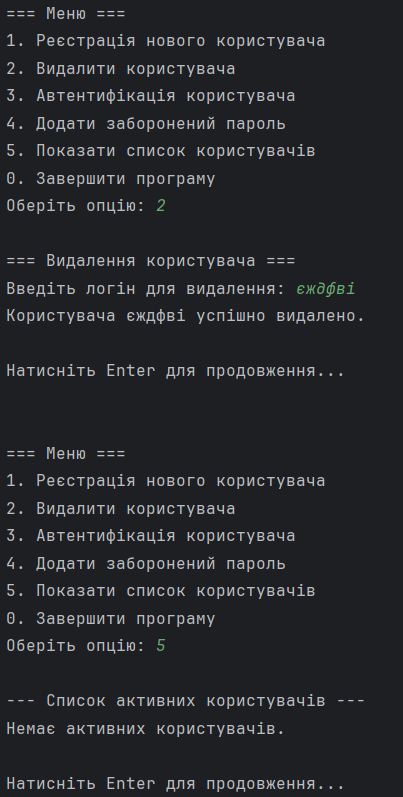
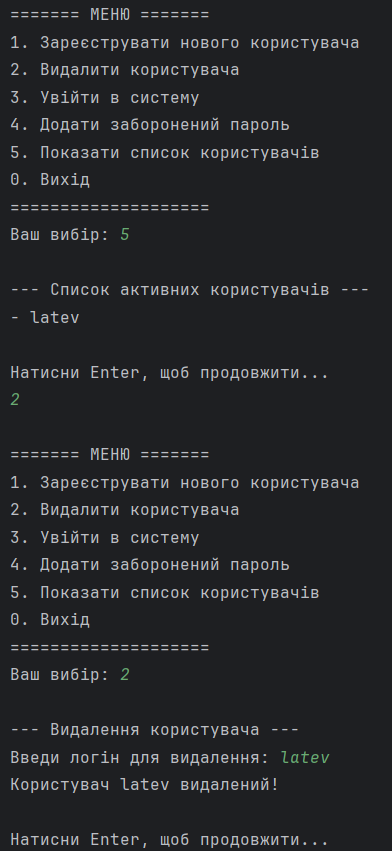
Refactoring and simplification

Changed region(s): [[0.0, 0.0, 0.9184, 0.4818], [0.0, 0.5119, 0.9184, 0.9335], [0.0, 0.9636, 0.8265, 1.0]]

diff --git a/src/Main.java b/src/Main.java
@@ -1,70 +1,65 @@
 import java.util.Scanner;
 
 public class Main {
-    private static final int MAX_USERS = 15;
-    private static final String[] restrictedPasswords = {"admin", "pass", "password", "qwerty", "ytrewq"};
-    private static final String[] usernames = new String[MAX_USERS];
-    private static final String[] passwords = new String[MAX_USERS];
-    private static final boolean[] isActive = new boolean[MAX_USERS];
+    public static final int MAX_USERS = 15;
+    public static String[] bannedPasswords = {"admin", "pass", "password", "qwerty", "ytrewq"};
+    public static String[] usernames = new String[MAX_USERS];
+    public static String[] passwords = new String[MAX_USERS];
+    public static boolean[] isActive = new boolean[MAX_USERS];
 
     public static void main(String[] args) {
         Scanner scanner = new Scanner(System.in);
         boolean isRunning = true;
 
-        System.out.println("    Система автентифікації користувачів    ");
-
         while (isRunning) {
             showMenu();
-            System.out.print("Оберіть опцію: ");
+            System.out.print("Ваш вибір: ");
             int choice = readIntInput(scanner);
 
-            try {
-                switch (choice) {
-                    case 1:
-                        registerUser(scanner);
-                        break;
-                    case 2:
-                        deleteUser(scanner);
-                        break;
-                    case 3:
-                        authenticateUser(scanner);
-                        break;
-                    case 4:
-                        addForbiddenPassword(scanner);
-                        break;
-                    case 5:
-                        showUsers();
-                        break;
-                    case 0:
-                        isRunning = false;
-                        System.out.println("Програму зупинено.");
-                        break;
-                    default:
-                        System.out.println("Некоректний вибір. Спробуйте ще раз.");
-                }
-            } catch (Exception e) {
-                System.out.println("Сталася помилка: " + e.getMessage());
+            switch (choice) {
+                case 1:
+                    registerUser(scanner);
+                    break;
+                case 2:
+                    deleteUser(scanner);
+                    break;
+                case 3:
+                    authenticateUser(scanner);
+                    break;
+                case 4:
+                    addForbiddenPassword(scanner);
+                    break;
+                case 5:
+                    showUsers();
+                    break;
+                case 0:
+                    isRunning = false;
+                    System.out.println("Вихід з програми. Бувай!");
+                    break;
+                default:
+                    System.out.println("Гей, такого пункту немає! Спробуй ще раз.");
             }
 
             if (isRunning) {
-                System.out.println("\nНатисніть Enter для продовження...");
+                System.out.println("\nНатисни Enter, щоб продовжити...");
                 scanner.nextLine();
             }
         }
         scanner.close();
     }
 
-    private static void showMenu() {
-        System.out.println("\n=== Меню ===");
-        System.out.println("1. Реєстрація нового користувача");
+    public static void showMenu() {
+        System.out.println("\n======= МЕНЮ =======");
+        System.out.println("1. Зареєструвати нового користувача");
         System.out.println("2. Видалити користувача");
-        System.out.println("3. Автентифікація користувача");
+        System.out.println("3. Увійти в систему");
         System.out.println("4. Додати заборонений пароль");
         System.out.println("5. Показати список користувачів");
-        System.out.println("0. Завершити програму");
+        System.out.println("0. Вихід");
+        System.out.println("====================");
     }
 
-    private static int readIntInput(Scanner scanner) {
+    public static int readIntInput(Scanner scanner) {
         int value = -1;
         boolean validInput = false;
 
@@ -73,129 +68,45 @@ public class Main {
                 value = Integer.parseInt(scanner.nextLine().trim());
                 validInput = true;
             } catch (NumberFormatException e) {
-                System.out.print("Некоректне число! Введіть ціле число: ");
+                System.out.print("Це не число! Давай ще раз: ");
             }
         }
         return value;
     }
 
-    private static void registerUser(Scanner scanner) throws Exception {
-        System.out.println("\n=== Реєстрація нового користувача ===");
-        System.out.print("Введіть логін (мінімум 5 символів, без пробілів): ");
+    public static void registerUser(Scanner scanner) {
+        System.out.println("\n--- Реєстрація нового користувача ---");
+        System.out.print("Введи логін (мінімум 5 символів, без пробілів): ");
         String username = scanner.nextLine();
 
-        validateUsername(username);
-
-        for (int i = 0; i < MAX_USERS; i++) {
-            if (usernames[i] != null && isActive[i] && usernames[i].equals(username)) {
-                throw new Exception("Користувач з таким ім'ям вже існує!");
-            }
-        }
-
-        System.out.print("Введіть пароль (мінімум 10 символів, з яких хоча б 3 цифри і 1 спецсимвол): ");
-        String password = scanner.nextLine();
-
-        validatePassword(password);
-
-        for (String restricted : restrictedPasswords) {
-            if (restricted.equals(password)) {
-                throw new Exception("Пароль знаходиться у списку заборонених!");
-            }
-        }
-
-        for (int i = 0; i < MAX_USERS; i++) {
-            if (usernames[i] == null || !isActive[i]) {
-                usernames[i] = username;
-                passwords[i] = password;
-                isActive[i] = true;
-                System.out.println("Користувача " + username + " успішно зареєстровано.");
-                return;
-            }
-        }
-        throw new Exception("Досягнуто максимальної кількості користувачів (15)!");
-    }
-
-    private static void deleteUser(Scanner scanner) throws Exception {
-        System.out.println("\n=== Видалення користувача ===");
-        System.out.print("Введіть логін для видалення: ");
-        String username = scanner.nextLine();
-
-        for (int i = 0; i < MAX_USERS; i++) {
-            if (usernames[i] != null && isActive[i] && usernames[i].equals(username)) {
-                isActive[i] = false;
-                System.out.println("Користувача " + username + " успішно видалено.");
-                return;
-            }
-        }
-        throw new Exception("Користувача з ім'ям " + username + " не знайдено!");
-    }
-
-    private static void authenticateUser(Scanner scanner) throws Exception {
-        System.out.println("\n=== Автентифікація користувача ===");
-        System.out.print("Введіть логін: ");
-        String username = scanner.nextLine();
-        System.out.print("Введіть пароль: ");
-        String password = scanner.nextLine();
-
-        for (int i = 0; i < MAX_USERS; i++) {
-            if (usernames[i] != null && isActive[i] && usernames[i].equals(username) && passwords[i].equals(password)) {
-                System.out.println("Користувача " + username + " успішно авторизовано.");
-                return;
-            }
-        }
-        throw new Exception("Невірне ім'я користувача або пароль!");
-    }
-
-    private static void addForbiddenPassword(Scanner scanner) throws Exception {
-        System.out.println("\n=== Додавання забороненого паролю ===");
-        System.out.print("Введіть пароль для заборони: ");
-        String password = scanner.nextLine();
-
-        for (String restricted : restrictedPasswords) {
-            if (restricted.equals(password)) {
-                throw new Exception("Пароль вже знаходиться у списку заборонених!");
-            }
-        }
-
-        String[] newRestrictedPasswords = new String[restrictedPasswords.length + 1];
-        System.arraycopy(restrictedPasswords, 0, newRestrictedPasswords, 0, restrictedPasswords.length);
-        newRestrictedPasswords[restrictedPasswords.length] = password;
-        System.out.println("Пароль успішно додано до списку заборонених.");
-    }
-
-    private static void showUsers() {
-        System.out.println("\n--- Список активних користувачів ---");
-        boolean hasUsers = false;
-
-        for (int i = 0; i < MAX_USERS; i++) {
-            if (usernames[i] != null && isActive[i]) {
-                System.out.println("- " + usernames[i]);
-                hasUsers = true;
-            }
-        }
-
-        if (!hasUsers) {
-            System.out.println("Немає активних користувачів.");
-        }
-    }
-
-    private static void validateUsername(String username) throws Exception {
         if (username == null || username.trim().length() < 5) {
-            throw new Exception("Некоректне ім'я користувача! Воно повинно містити щонайменше 5 символів.");
+            System.out.println("Помилка! Логін має бути не менше 5 символів!");
+            return;
         }
 
         if (username.contains(" ")) {
-            throw new Exception("Некоректне ім'я користувача! Воно не повинно містити пробілів.");
+            System.out.println("Помилка! У логіні не повинно бути пробілів!");
+            return;
         }
-    }
 
-    private static void validatePassword(String password) throws Exception {
+        for (int i = 0; i < MAX_USERS; i++) {
+            if (usernames[i] != null && isActive[i] && usernames[i].equals(username)) {
+                System.out.println("Такий користувач вже є!");
+                return;
+            }
+        }
+
+        System.out.print("Введи пароль (мінімум 10 символів, мінімум 3 цифри і 1 спецсимвол): ");
+        String password = scanner.nextLine();
+
         if (password == null || password.length() < 10) {
-            throw new Exception("Некоректний пароль! Повинен бути мінімум 10 символів.");
+            System.out.println("Помилка! Пароль має бути не менше 10 символів!");
+            return;
         }
 
         if (password.contains(" ")) {
-            throw new Exception("Некоректний пароль! Не повинен містити пробілів.");
+            System.out.println("Помилка! У паролі не повинно бути пробілів!");
+            return;
         }
 
         int digitCount = 0;
@@ -209,11 +120,117 @@ public class Main {
         }
 
         if (digitCount < 3) {
-            throw new Exception("Некоректний пароль! Повинен містити щонайменше 3 цифри.");
+            System.out.println("Помилка! У паролі має бути мінімум 3 цифри!");
+            return;
         }
 
         if (specialCharCount < 1) {
-            throw new Exception("Некоректний пароль! Повинен містити щонайменше 1 спеціальний символ.");
+            System.out.println("Помилка! У паролі має бути хоча б 1 спецсимвол!");
+            return;
+        }
+
+        for (String restricted : bannedPasswords) {
+            if (restricted.equals(password)) {
+                System.out.println("Цей пароль заборонений! Вибери інший.");
+                return;
+            }
+        }
+
+        boolean userAdded = false;
+        for (int i = 0; i < MAX_USERS; i++) {
+            if (usernames[i] == null || !isActive[i]) {
+                usernames[i] = username;
+                passwords[i] = password;
+                isActive[i] = true;
+                System.out.println("Ура! Користувач " + username + " успішно зареєстрований!");
+                userAdded = true;
+                break;
+            }
+        }
+
+        if (!userAdded) {
+            System.out.println("Місця немає! У нас вже максимум користувачів (15)!");
+        }
+    }
+
+    public static void deleteUser(Scanner scanner) {
+        System.out.println("\n--- Видалення користувача ---");
+        System.out.print("Введи логін для видалення: ");
+        String username = scanner.nextLine();
+
+        boolean userFound = false;
+        for (int i = 0; i < MAX_USERS; i++) {
+            if (usernames[i] != null && isActive[i] && usernames[i].equals(username)) {
+                isActive[i] = false;
+                System.out.println("Користувач " + username + " видалений!");
+                userFound = true;
+                break;
+            }
+        }
+
+        if (!userFound) {
+            System.out.println("Такого користувача немає в системі!");
+        }
+    }
+
+    public static void authenticateUser(Scanner scanner) {
+        System.out.println("\n--- Вхід в систему ---");
+        System.out.print("Логін: ");
+        String username = scanner.nextLine();
+        System.out.print("Пароль: ");
+        String password = scanner.nextLine();
+
+        boolean authenticated = false;
+        for (int i = 0; i < MAX_USERS; i++) {
+            if (usernames[i] != null && isActive[i] && usernames[i].equals(username) && passwords[i].equals(password)) {
+                System.out.println("Привіт, " + username + "! Ти успішно увійшов в систему.");
+                authenticated = true;
+                break;
+            }
+        }
+
+        if (!authenticated) {
+            System.out.println("Невірний логін або пароль! Спробуй ще раз.");
+        }
+    }
+
+    public static void addForbiddenPassword(Scanner scanner) {
+        System.out.println("\n--- Додавання забороненого пароля ---");
+        System.out.print("Введи пароль для заборони: ");
+        String password = scanner.nextLine();
+
+        if (password == null || password.trim().isEmpty()) {
+            System.out.println("Порожній пароль не можна заборонити!");
+            return;
+        }
+
+        for (String restricted : bannedPasswords) {
+            if (restricted.equals(password)) {
+                System.out.println("Цей пароль вже заборонений!");
+                return;
+            }
+        }
+
+        String[] newBannedPasswords = new String[bannedPasswords.length + 1];
+        System.arraycopy(bannedPasswords, 0, newBannedPasswords, 0, bannedPasswords.length);
+        newBannedPasswords[bannedPasswords.length] = password;
+        bannedPasswords = newBannedPasswords;
+        System.out.println("Пароль додано до чорного списку!");
+    }
+
+    public static void showUsers() {
+        System.out.println("\n--- Список активних користувачів ---");
+        boolean hasUsers = false;
+
+        for (int i = 0; i < MAX_USERS; i++) {
+            if (usernames[i] != null && isActive[i]) {
+                System.out.println("- " + usernames[i]);
+                hasUsers = true;
+            }
+        }
+
+        if (!hasUsers) {
+            System.out.println("Немає активних користувачів.");
         }
     }
 }
